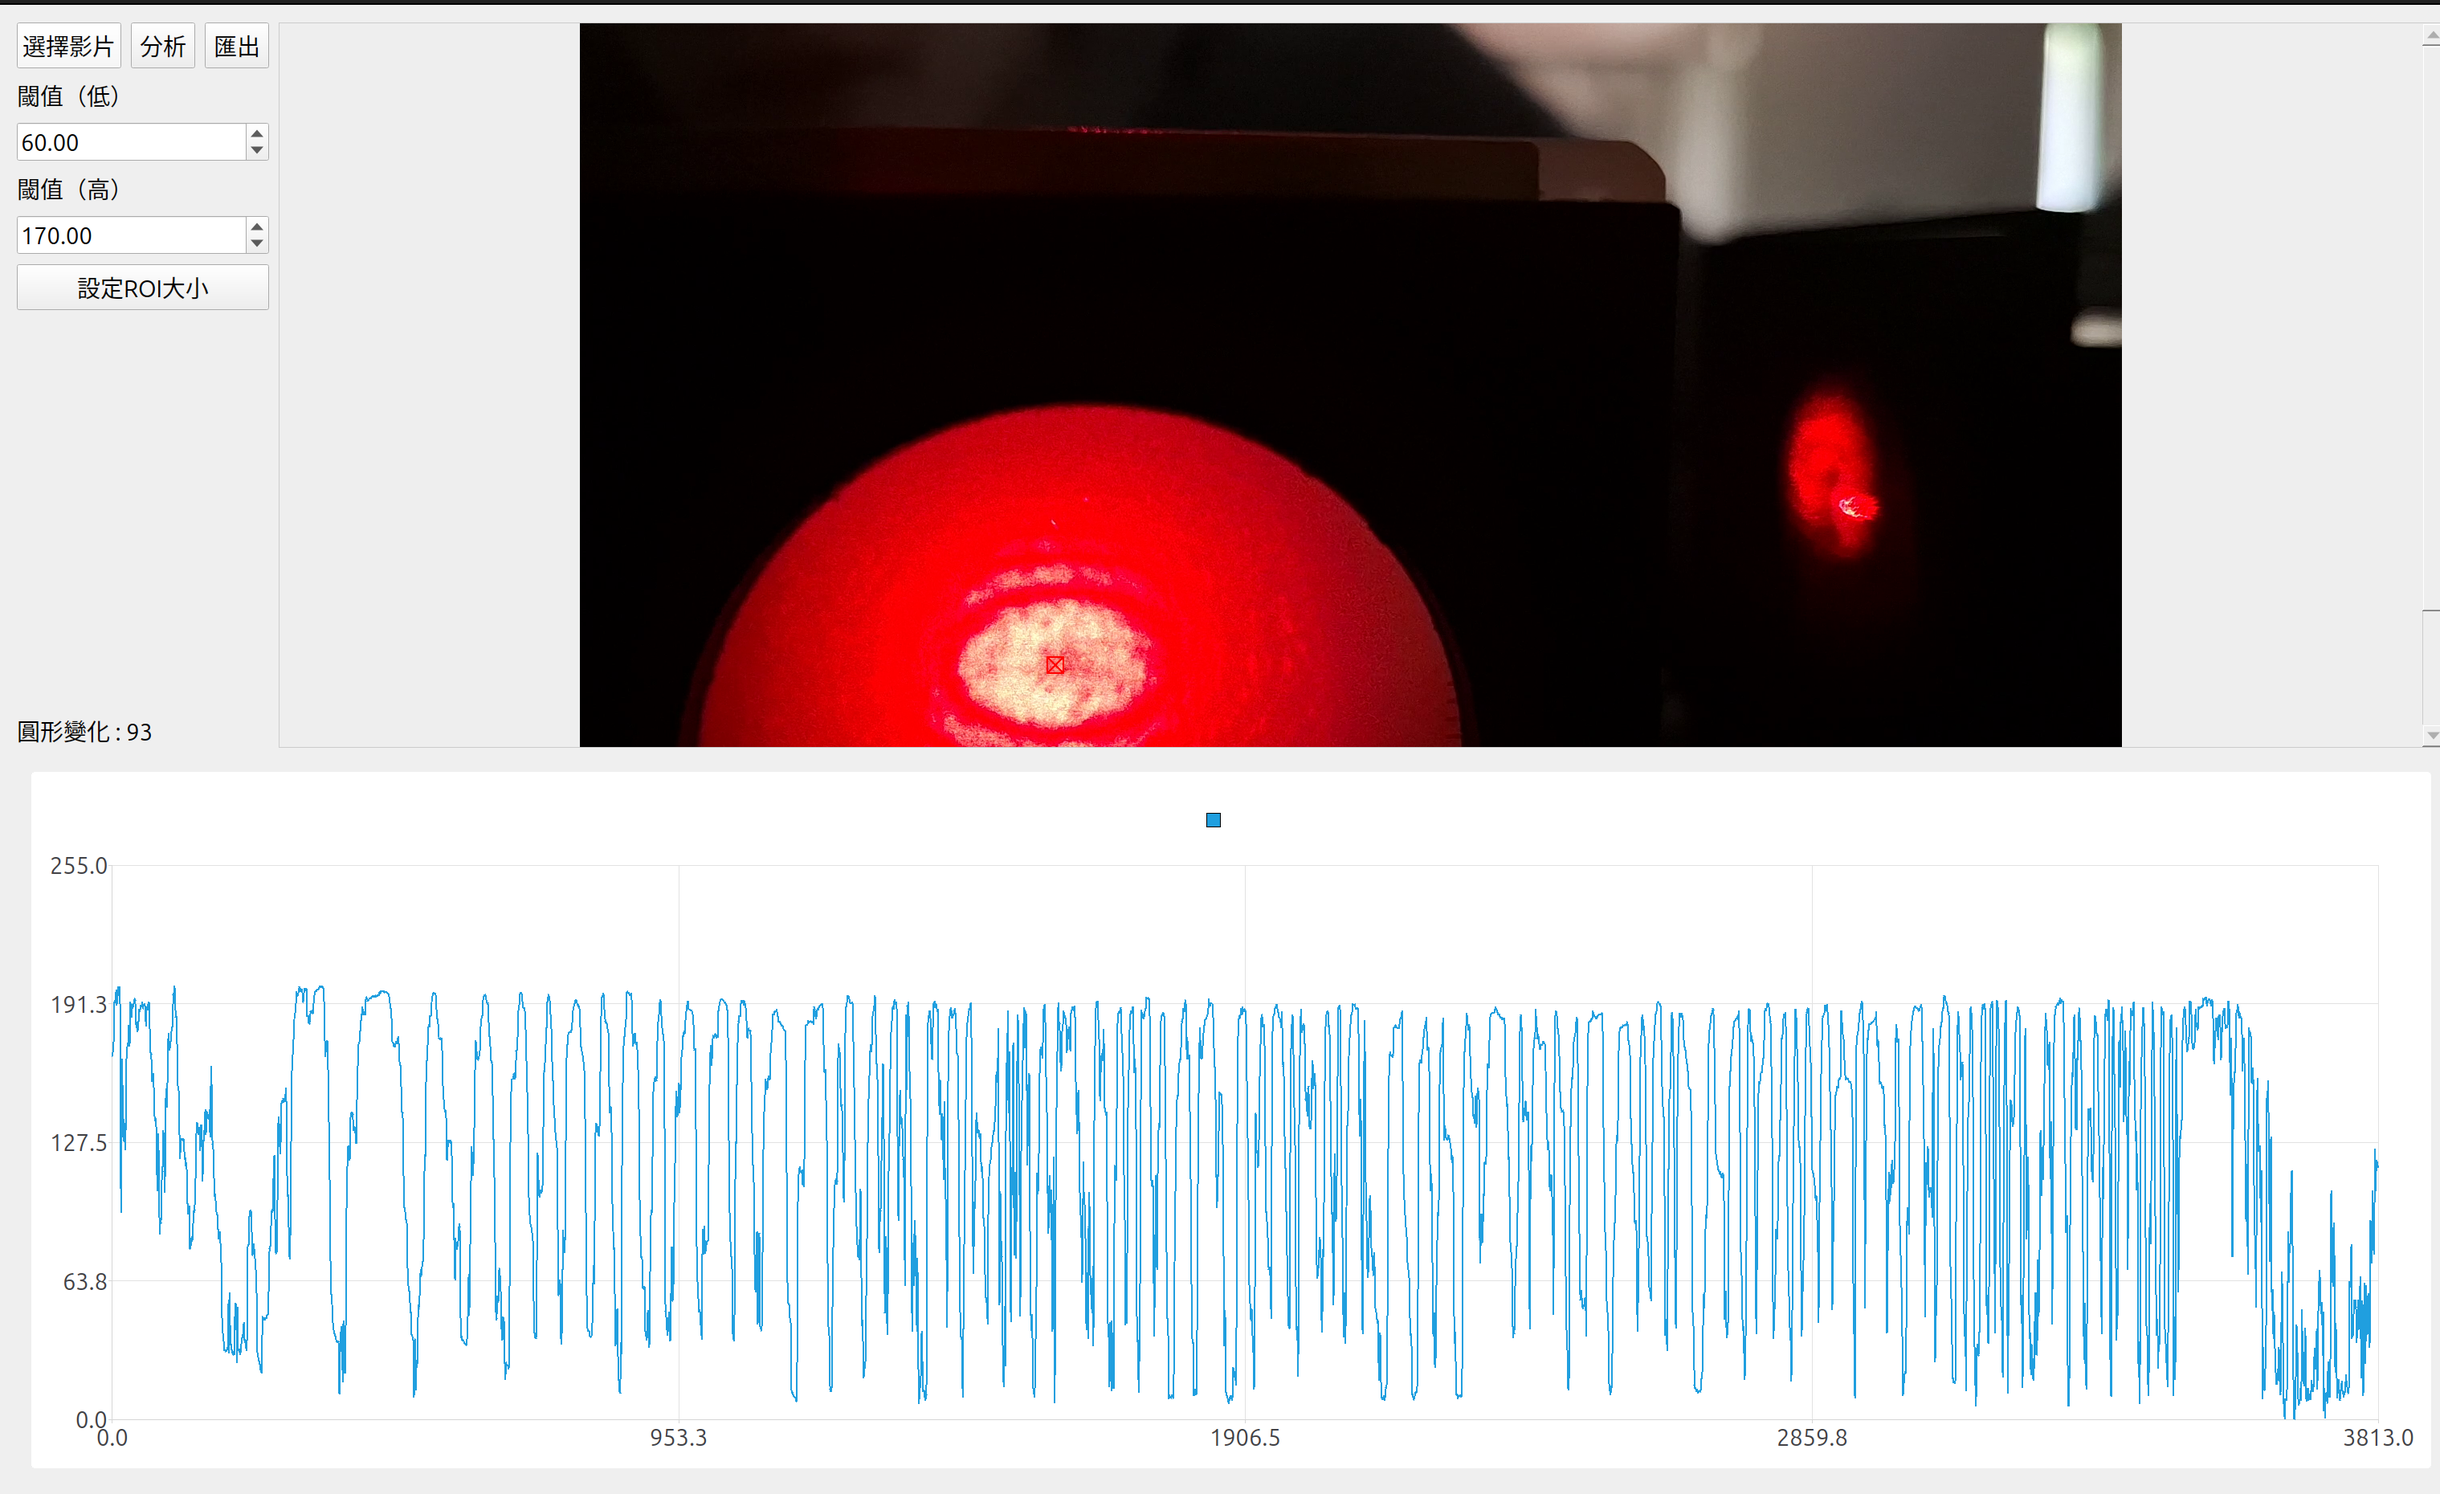
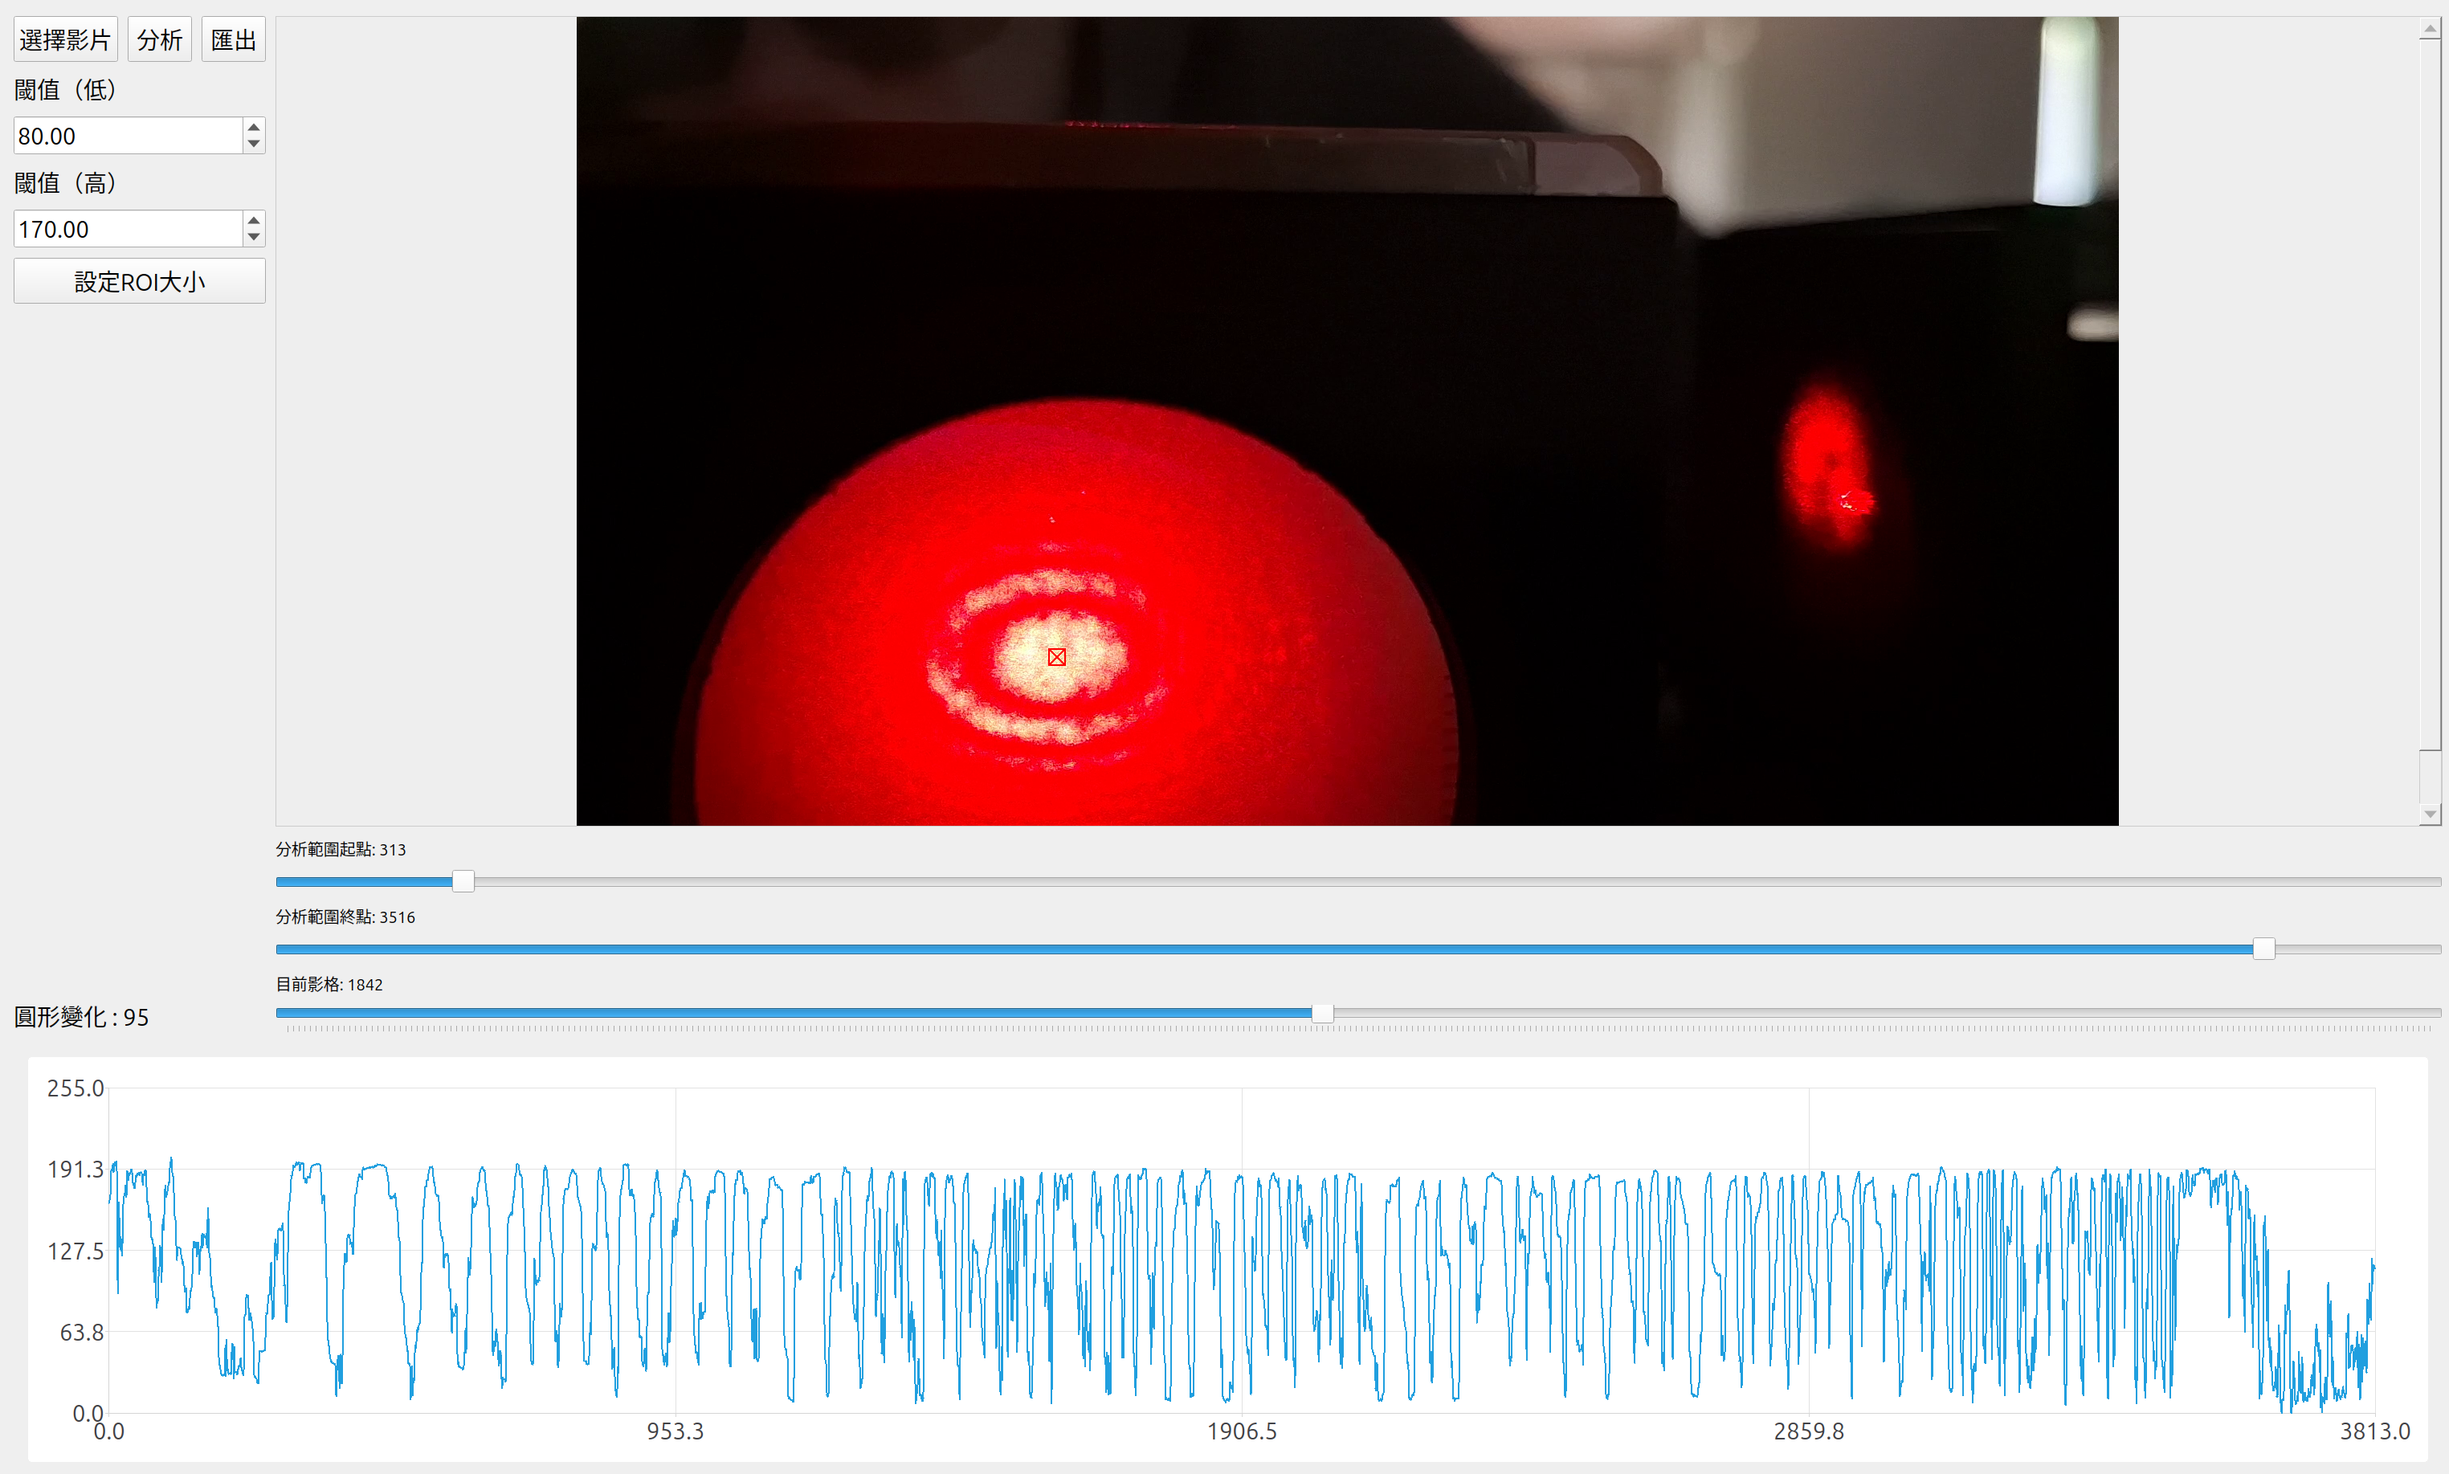
feat: set analyze range

diff --git a/src/source/mainWindow.cpp b/src/source/mainWindow.cpp
@@ -15,8 +15,6 @@
 
 struct AnalyzeSettings {
   std::string fileName;
-  int thresholdLow;
-  int thresholdHigh;
   int roiSize;
   QPoint roiCenter;
 };
@@ -43,6 +41,7 @@ MainWindow::MainWindow(QWidget *parent) : QWidget(parent) {
   lineSeries = new QtCharts::QLineSeries();
   chart = new QtCharts::QChart();
   chart->addSeries(lineSeries);
+  chart->legend()->hide();
   chart->createDefaultAxes();
   auto axesY = chart->axes(Qt::Vertical, lineSeries);
   if (!axesY.isEmpty()) {
@@ -63,6 +62,26 @@ MainWindow::MainWindow(QWidget *parent) : QWidget(parent) {
   roiCrossItem = nullptr;
   roiRectItem = nullptr;
   roiCenter = QPoint(-1, -1);
+  // Sliders
+  frameSlider = new QSlider(Qt::Horizontal, this);
+  frameSlider->setMinimum(0);
+  frameSlider->setMaximum(0);
+  frameSlider->setTickPosition(QSlider::TicksBelow);
+
+  rangeSliderMin = new QSlider(Qt::Horizontal, this);
+  rangeSliderMin->setMinimum(0);
+  rangeSliderMin->setMaximum(0);
+
+  rangeSliderMax = new QSlider(Qt::Horizontal, this);
+  rangeSliderMax->setMinimum(0);
+  rangeSliderMax->setMaximum(0);
+  // Slider labels
+  labelRangeMin = new QLabel("分析範圍起點: 0", this);
+  labelRangeMin->setStyleSheet("font-size: 20px;");
+  labelRangeMax = new QLabel("分析範圍終點: 0", this);
+  labelRangeMax->setStyleSheet("font-size: 20px;");
+  labelFrame = new QLabel("目前影格: 0", this);
+  labelFrame->setStyleSheet("font-size: 20px;");
 
   // Result display
   labelCircleChange = new QLabel("圓形變化 : N/A", this);
@@ -86,6 +105,12 @@ MainWindow::MainWindow(QWidget *parent) : QWidget(parent) {
 
   auto *rightLayout = new QVBoxLayout();
   rightLayout->addWidget(graphicsView);
+  rightLayout->addWidget(labelRangeMin);
+  rightLayout->addWidget(rangeSliderMin);
+  rightLayout->addWidget(labelRangeMax);
+  rightLayout->addWidget(rangeSliderMax);
+  rightLayout->addWidget(labelFrame);
+  rightLayout->addWidget(frameSlider);
 
   auto *mainLayout = new QVBoxLayout(this);
   auto *topLayout = new QHBoxLayout();
@@ -94,7 +119,8 @@ MainWindow::MainWindow(QWidget *parent) : QWidget(parent) {
   mainLayout->addLayout(topLayout);
 
   auto *contentLayout = new QHBoxLayout();
-  contentLayout->addWidget(chartView, 1);
+  contentLayout->addWidget(chartView, 0, Qt::AlignTop);
+  chartView->setFixedHeight(540);
   mainLayout->addLayout(contentLayout);
 
   setLayout(mainLayout);
@@ -111,6 +137,13 @@ MainWindow::MainWindow(QWidget *parent) : QWidget(parent) {
   connect(btnExport, &QPushButton::clicked, this, &MainWindow::exportCsv);
   connect(btnSetRoiSize, &QPushButton::clicked, this,
           &MainWindow::showRoiSizeDialog);
+  // Connect slider signals to update labels
+  connect(rangeSliderMin, &QSlider::valueChanged, this,
+          [this](int min) { this->updateSlider(min, -1, -1); });
+  connect(rangeSliderMax, &QSlider::valueChanged, this,
+          [this](int max) { this->updateSlider(-1, max, -1); });
+  connect(frameSlider, &QSlider::valueChanged, this,
+          [this](int value) { this->updateSlider(-1, -1, value); });
 }
 
 MainWindow::~MainWindow() {}
@@ -147,7 +180,7 @@ void MainWindow::selectVideo() {
   imageItem = graphicsScene->addPixmap(QPixmap::fromImage(img));
   graphicsScene->setSceneRect(img.rect());
   if (roiCenter.x() >= 0 && roiCenter.y() >= 0)
-    setRoiCenter(roiCenter);
+    updateRoi();
   lineSeries->clear();
   int frameCount = fileIo->getFrameCount(fileName);
   // Set the range of the x-axis
@@ -157,6 +190,10 @@ void MainWindow::selectVideo() {
     if (valueAxisX)
       valueAxisX->setRange(0, frameCount);
   }
+  frameSlider->setMaximum(frameCount - 1);
+  rangeSliderMin->setMaximum(frameCount - 1);
+  rangeSliderMax->setMaximum(frameCount - 1);
+  rangeSliderMax->setValue(frameCount - 1);
 }
 
 void MainWindow::analyze() {
@@ -176,12 +213,6 @@ void MainWindow::analyze() {
     QMessageBox::warning(this, tr("錯誤"), tr("閾值（低）必須小於閾值（高）"));
     return;
   }
-  if (prevSettings.fileName == fileName && prevSettings.roiSize == roiSize &&
-      prevSettings.roiCenter == roiCenter &&
-      prevSettings.thresholdLow == thresholdLow &&
-      prevSettings.thresholdHigh == thresholdHigh) {
-    return;
-  }
   if (prevSettings.fileName != fileName || prevSettings.roiSize != roiSize ||
       prevSettings.roiCenter != roiCenter) {
     // Clear previous results
@@ -191,8 +222,9 @@ void MainWindow::analyze() {
     fileIo->readFramesAsync(fileName);
   }
 
-  int circleChange =
-      analyzer->calculateCircleChange(thresholdLow, thresholdHigh);
+  int circleChange = analyzer->calculateCircleChange(
+      thresholdLow, thresholdHigh, rangeSliderMin->value(),
+      rangeSliderMax->value());
 
   labelCircleChange->setText(QString("圓形變化 : %1").arg(circleChange));
 
@@ -200,8 +232,6 @@ void MainWindow::analyze() {
   prevSettings.fileName = fileName;
   prevSettings.roiSize = roiSize;
   prevSettings.roiCenter = roiCenter;
-  prevSettings.thresholdLow = thresholdLow;
-  prevSettings.thresholdHigh = thresholdHigh;
 }
 
 void MainWindow::exportCsv() {
@@ -269,4 +299,45 @@ void MainWindow::mousePressEvent(QMouseEvent *event) {
     }
   }
   QWidget::mousePressEvent(event);
+}
+void MainWindow::updateSlider(int min, int max, int value) {
+  if (min >= 0) {
+    if (min > rangeSliderMax->value()) {
+      rangeSliderMin->setValue(rangeSliderMax->value());
+    }
+    if (min > frameSlider->value()) {
+      frameSlider->setValue(min);
+      labelFrame->setText(QString("目前影格: %1").arg(min));
+    }
+    labelRangeMin->setText(QString("分析範圍起點: %1").arg(min));
+  }
+  if (max >= 0) {
+    if (max < rangeSliderMin->value()) {
+      rangeSliderMax->setValue(rangeSliderMin->value());
+    }
+    if (max < frameSlider->value()) {
+      frameSlider->setValue(max);
+      labelFrame->setText(QString("目前影格: %1").arg(max));
+    }
+    labelRangeMax->setText(QString("分析範圍終點: %1").arg(max));
+  }
+  if (value >= 0) {
+    if (value < rangeSliderMin->value()) {
+      value = rangeSliderMin->value();
+    }
+    if (value > rangeSliderMax->value()) {
+      value = rangeSliderMax->value();
+    }
+    frameSlider->setValue(value);
+    labelFrame->setText(QString("目前影格: %1").arg(value));
+    cv::Mat firstFrame = fileIo->getFrame(fileName, value);
+    QImage img(firstFrame.data, firstFrame.cols, firstFrame.rows,
+               firstFrame.step[0], QImage::Format_BGR888);
+    if (imageItem)
+      graphicsScene->removeItem(imageItem);
+    imageItem = graphicsScene->addPixmap(QPixmap::fromImage(img));
+    graphicsScene->setSceneRect(img.rect());
+    if (roiCenter.x() >= 0 && roiCenter.y() >= 0)
+      updateRoi();
+  }
 }

diff --git a/src/header/mainWindow.h b/src/header/mainWindow.h
@@ -7,6 +7,7 @@
 #include <QLabel>
 #include <QLineSeries>
 #include <QPushButton>
+#include <QSlider>
 #include <QWidget>
 
 class MainWindow : public QWidget {
@@ -41,6 +42,14 @@ private:
   QGraphicsRectItem *roiRectItem;
   QPoint roiCenter;
   int roiSize = 20;
+  // Sliders
+  QSlider *frameSlider;
+  QSlider *rangeSliderMin;
+  QSlider *rangeSliderMax;
+  // Labels for sliders
+  QLabel *labelRangeMin;
+  QLabel *labelRangeMax;
+  QLabel *labelFrame;
 
   // Result display
   QLabel *labelCircleChange;
@@ -56,6 +65,7 @@ private:
   void exportCsv();
   void setRoiCenter(const QPoint &pt);
   void updateRoi();
+  void updateSlider(int min, int max, int value);
 public slots:
   void updateResults(const cv::Mat &frame, double *meanIntesity, int startFrame,
                      int size);

diff --git a/src/source/analyzer.cpp b/src/source/analyzer.cpp
@@ -26,13 +26,15 @@ void Analyzer::calculateMean(const cv::Mat &frame, const bool isLastFrame) {
   }
 }
 
-int Analyzer::calculateCircleChange(double thresholdLow, double thresholdHigh) {
+int Analyzer::calculateCircleChange(double thresholdLow, double thresholdHigh,
+                                    int startFrame, int endFrame) {
   /*
    * 設定兩個閾值，當值從低於閾值變為高於閾值時，計數器加一
    */
   int cnt = 0;
   bool reachThreshold = false, low;
-  for (double result : results) {
+  for (int i = startFrame; i < results.size() && i != endFrame; i++) {
+    const double result = results[i];
     if (result < thresholdLow) {
       reachThreshold = true;
       low = true;

diff --git a/src/header/analyzer.h b/src/header/analyzer.h
@@ -17,7 +17,8 @@ public:
 
   void setBound(int left, int right, int top, int bottom);
   void clearResults();
-  int calculateCircleChange(double thresholdLow, double thresholdHigh);
+  int calculateCircleChange(double thresholdLow, double thresholdHigh,
+                            int startFrame = 0, int endFrame = -1);
 
   const std::vector<double> &getResults() const;
 
